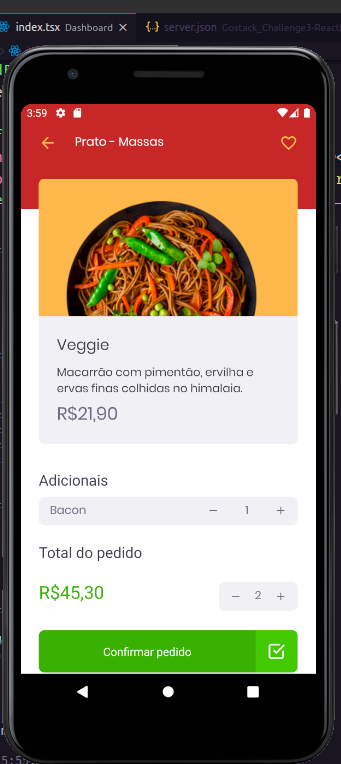
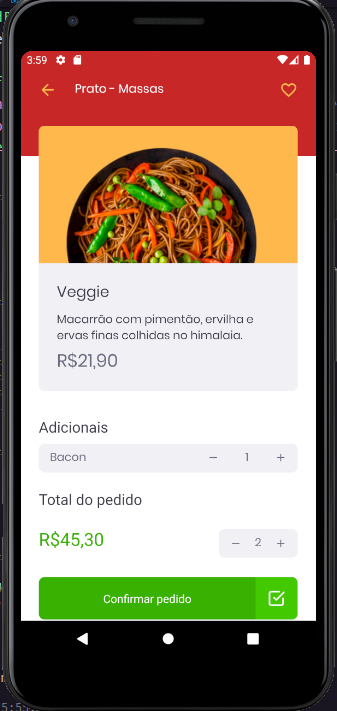
docs: Update images into README.md file

diff --git a/README.md b/README.md
@@ -120,7 +120,7 @@ Para esse desafio, temos os seguintes testes:
 </figure><br/><br/>
 
 <figure>
-    <img src="./prints/pic2.png"  style="margin: 0 auto" width="100%" alt="pic2" title="Imagem Food Details">
+    <img src="./prints/pic2.png"  style="margin: 0 auto" width="40%" height="100" alt="pic2" title="Imagem Food Details">
 </figure><br/><br/>
 
 ## :memo: Licença
